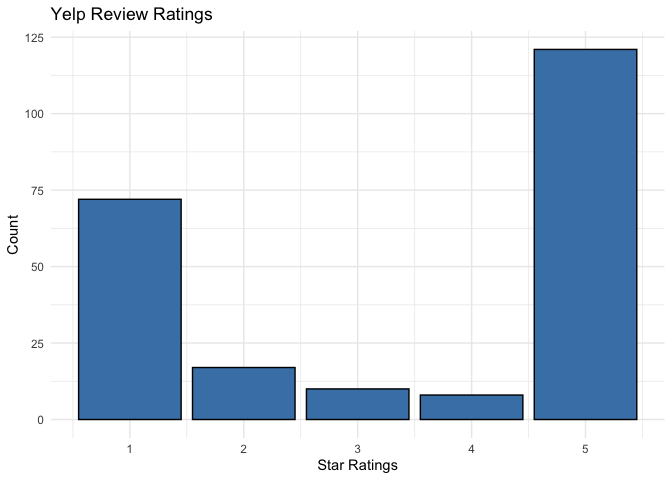
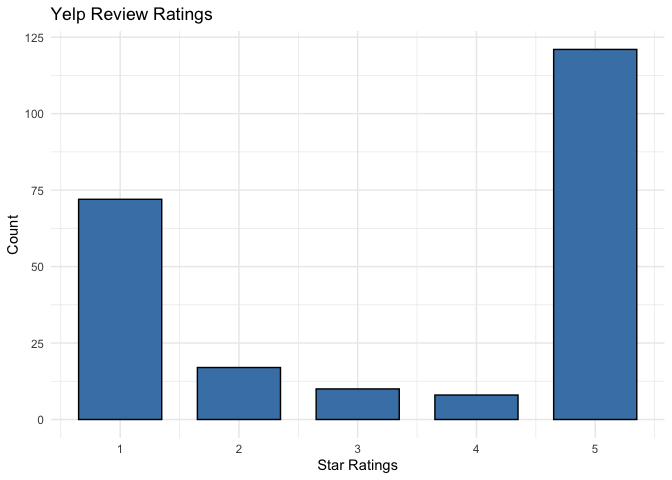
Sunday Night Update Before Bed

diff --git a/Mayo-Clinic-Yelp-Review-Text-Analysis.md b/Mayo-Clinic-Yelp-Review-Text-Analysis.md
@@ -16,7 +16,11 @@ RexManglicmot
     Data</a>
 -   <a href="#exploratory-data-analysis"
     id="toc-exploratory-data-analysis">Exploratory Data Analysis</a>
--   <a href="#wordcloud" id="toc-wordcloud">WordCloud</a>
+-   <a href="#column-charts-and-wordclouds"
+    id="toc-column-charts-and-wordclouds">Column Charts and WordClouds</a>
+-   <a href="#sentiment-positive-and-negative-words"
+    id="toc-sentiment-positive-and-negative-words">Sentiment: Positive and
+    Negative Words</a>
 -   <a href="#limitations" id="toc-limitations">Limitations</a>
 -   <a href="#conclusions" id="toc-conclusions">Conclusions</a>
 -   <a href="#inspiration-for-this-project"
@@ -103,8 +107,8 @@ This project is comprised of the following chapters:
 3.  Loading the Data
 4.  Cleaning the Data
 5.  Exploratory Data Analysis
-6.  Word Cloud
-7.  Positive and Negative Words
+6.  Column Charts and WordClouds
+7.  Sentiment: Positive and Negative Words
 8.  Limitations
 9.  Conclusion
 10. Inspiration for this project
@@ -465,7 +469,7 @@ barchart.
 ``` r
 #create a barchart to count the values
 ggplot(data, aes(x=rating)) +
-  geom_bar(color='black', fill='steelblue') +
+  geom_bar(color='black', fill='steelblue', width = .7) +
   scale_fill_brewer(palette="Dark2") +
   theme_minimal() +
   labs(title = 'Yelp Review Ratings',
@@ -511,7 +515,7 @@ What we can do for the next steps are to separate the 228 reviews into 3
 sections; 1 rating, 5 rating, and overall rating and see what words are
 associated within each. That would be interesting to figure out.
 
-## WordCloud
+## Column Charts and WordClouds
 
 WordClouds are used to illustrate common words about a subject (Mayo
 Clinic in our case). **Need to fill in more.**
@@ -655,8 +659,7 @@ Let’s get rid of numbers in the list.
 #not interested in numbers, need to filter out
 data6 <- data5 %>%
   #include words that has at least one alphabetical charachter in each out
-  filter(str_detect(word, '[:alpha:]')) %>%
-  subset()
+  filter(str_detect(word, '[:alpha:]')) 
 ```
 
 Now let’s get arrange the by the number of the most frequent words and
@@ -669,9 +672,59 @@ data7 <- data6 %>%
   count(word) %>%
   arrange(desc(n)) %>%
   filter(n!= 1 & n!= 2 & n!=3)
+
+dim(data7)
 ```
 
+    ## [1] 659   2
+
+``` r
+str(data7)
+```
+
+    ## 'data.frame':    659 obs. of  2 variables:
+    ##  $ word: chr  "care" "time" "doctor" "doctors" ...
+    ##  $ n   : int  122 106 102 99 93 81 80 80 75 72 ...
+
 Our data is further cleaned and ready to plot!!
+
+``` r
+library(ggplot2)
+
+#lets filter for top 50 words
+data8 <- data7 %>%
+  filter(n > 50) %>%
+  #rearrange for ggplot 
+  mutate(word2 = fct_reorder(word, n))
+
+#plot the data
+ggplot(data8, aes(x=word2, y= n)) +
+  geom_col(fill = 'lightblue', color= 'black') + 
+  coord_flip() +
+  labs(title = "Top Words That Patients Use To Describe the Mayo Clinic ",
+       x = 'Count',
+       y = 'Words') +
+  theme_classic()
+```
+
+![](Mayo-Clinic-Yelp-Review-Text-Analysis_files/figure-gfm/unnamed-chunk-20-1.png)<!-- -->
+
+``` r
+wordcloud(
+  words = data7$word,
+  freq = data7$n,
+  max.words = 50,
+  colors = 'lightblue'
+)
+```
+
+![](Mayo-Clinic-Yelp-Review-Text-Analysis_files/figure-gfm/unnamed-chunk-21-1.png)<!-- -->
+
+The wordcloud above shows the overall patient word count from the 228
+reviews. Now let’s create two addtional wordclouds for those who rated
+Mayo Clinic 1 and 5 stars.
+
+## Sentiment: Positive and Negative Words
 
 ## Limitations
 
